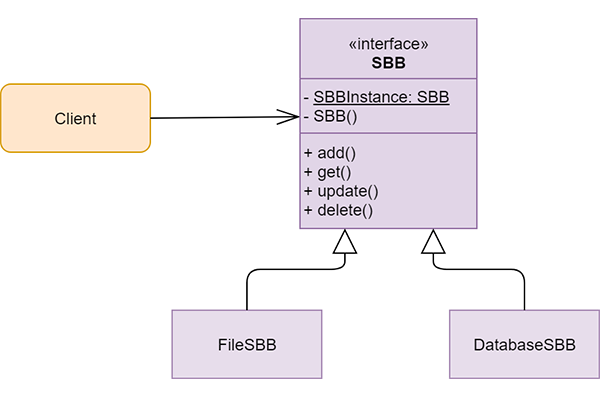
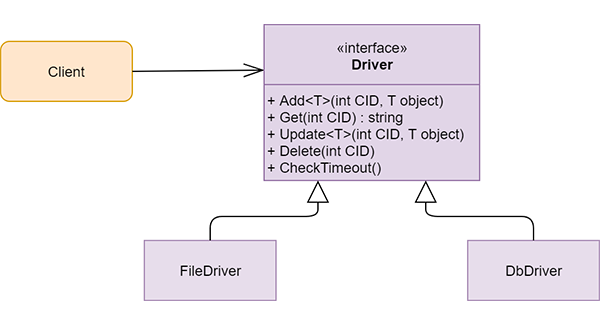
changed design patterns

Changed region(s): [[0.0, 0.0312, 0.81, 0.6875], [0.24, 0.6562, 0.54, 0.9688], [0.75, 0.6562, 1.0, 0.9688]]

diff --git a/wykorzystanie.html b/wykorzystanie.html
@@ -37,7 +37,10 @@
         <br>
         <h1 class="mt-4">Wykorzystanie</h1>
         <br>
-        <p>W ramach projektu z przedmiotu Wprowadzenie do wzorców projektowych stworzono bibliotekę SeamButBetter pozwalającą na obsługę konwersacji. Konwersacje służą do przechowywania zbiorów danych potrzebnych do obsługi przepływu informacji pomiędzy użytkownikami a aplikacją. W związku z tym mają na celu m.in. zapobiec konieczności ponownego wypełniania formularzy lub wyszukań przez użytkowników stron podczas trwania sesji. Przedstawiona biblioteka posiada także narzędzia zapewniające programistom odpowiedni stopień bezpieczeństwa podczas zarządzania otwartymi konwersacjami.</p>
+        <p>W celu skorzystania z biblioteki SeamButtBetter należy stworzyć instancję klasy SBB wybierając przy tym rodzaj Driver'a (FileDriver lub DbDriver). W zależności od podanego parametru wejściowego dane z konwersacji będą zapisywane w pliku tekstowym lub bazie danych po stronie użytkownika biblioteki. Jako argument podaje się zatem również ściężkę dostępu do pliku tekstowego bądź bazy danych. Opcjonalnie można także ustawić time-out (w minutach) konkretyzujący czas, po którego upłynięciu dane zostaną usunięte. Domyślnie składowane informacje nigdy nie są kasowane.</p>
+
+          <p>Na obiekcie klasy SBB można wywołać pięć metod: Add, Get, Update, Delete oraz CheckTimeout. Pierwsza z nich (Add) pozwala na dodanie nowej konwersacji, której CID (Conversation ID) podaje się jako jeden z dwóch argumentów wejściowych. Drugim jest obiekt zawierający dane, które użytkownik chce zapisywać w ramach każdej konwersacji. Metoda Get służy pobraniu informacji dotyczących konkretnej konwersacji - CID jest podawany jako argument wejściowy. Metodę tę wywołuje się w celu np. uzupełnienia pól formularza, które użytkownik strony już kiedyś wypełnił i dane nie uległy przedawnieniu. Analogicznie do już opisanych, metoda Update - uaktualnia informacje dotyczące uprzednio utworzonej konkretnej konwersacji, zaś Delete usuwa je, gdy upłynie czas wskazany przez time-out bądź gdy użytkownik biblioteki wywoła ją w pewnym momencie, np. zapewniając użytkownikowi strony możliwość podjęcia dezycji o usunięciu danych go dotyczących. Ostatnia metoda CheckTimeout jest wywoływana domyślnie na początku wykonywania metody Get w celu weryfikacji, czy dane nie zostały już przedawnione i nie powinny zostać usunięte. Użytkownik strony może również wywołać ją w dowolnym innym momencie w celu zwiększenia bezpieczeństwa zapisywanych danych.
+          </p>
       </div>
     </div>
     <!-- /#page-content-wrapper -->

diff --git a/wzorce.html b/wzorce.html
@@ -38,14 +38,14 @@
         <h1 class="mt-4">Wzorce</h1>
         <br>
         <h3>Strategia</h3>
-        <p>Wykorzystywany jest wzorzec Strategia do wyboru opcji zapisu konwersacji. Istnieją dwie takie możliwości zapis danych do pliku bądź do bazy danych.</p>
+        <p>Wykorzystywany jest wzorzec Strategia do wyboru opcji zapisu konwersacji. Istnieją dwie takie możliwości - zapis danych do pliku bądź do bazy danych.</p>
         <img src="strategia.PNG"><br>
-        <h3>Singleton</h3>
-        <p>W przypadku tego projektu jako Singleton jest zaimplementowana klasa umożliwiająca wykorzystanie wszystkich funkcjonalności zapewnianych przez bibliotekę.</p>
-        <img src="singleton.PNG"><br>
         <h3>Table Data Gateway</h3>
         <p>Dany wzorzec służy do komunikacji z bazą danych. Tworzona jest tylko jedna klasa zapewniająca pełną obsługę bazy danych, czyli zapis danych, odczyt, aktualizacja lub usunięcie danych konwersacji, które zostały już zakończone.</p>
         <img src="tabledatagateway.PNG">
+        <h3>Value Object</h3>
+        <p>W przypadku tego projektu jako Singleton jest zaimplementowana klasa umożliwiająca wykorzystanie wszystkich funkcjonalności zapewnianych przez bibliotekę.</p>
+        <img src="valueobject.PNG"><br>
       </div>
     </div>
     <!-- /#page-content-wrapper -->
